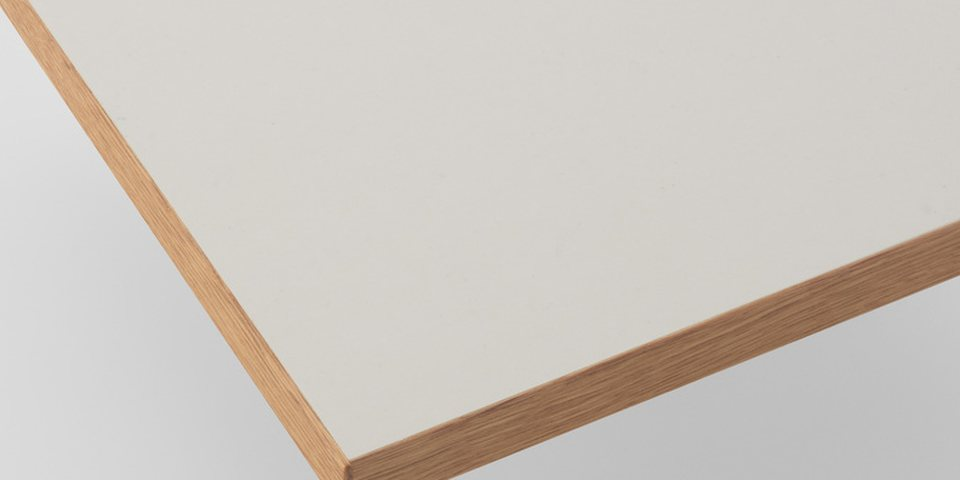
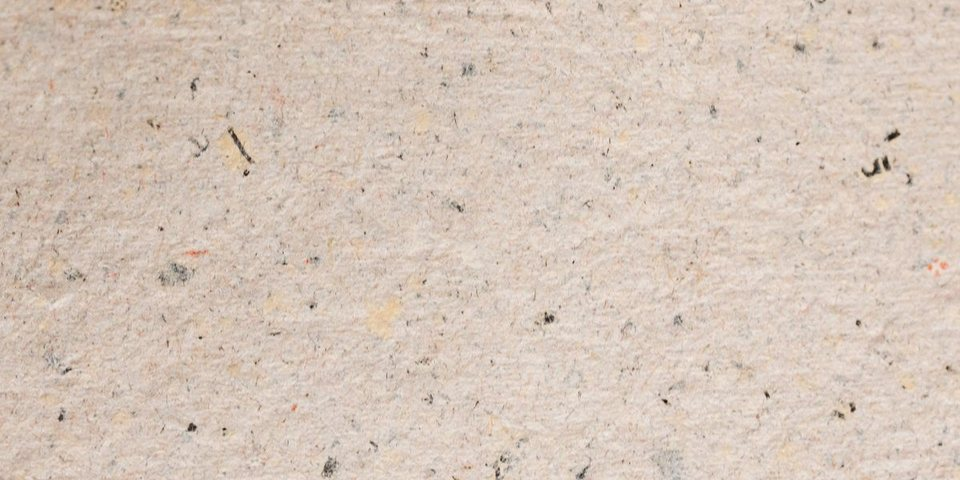
D3, T1, M4 görselleri Pexels'ten
Claude-Session: https://claude.ai/code/session_01S7vAHFJLTfkdp2KkHcoqyH

diff --git a/js/experiment.js b/js/experiment.js
@@ -69,7 +69,7 @@
   var GORSEL_KAYNAKLARI =
     'Linolyum: blahedo, Wikimedia Commons, CC BY-SA 2.5 (kırpıldı). ' +
     'Ahşap yünü panel: Florian Gerlach (Nawaro), Wikimedia Commons, CC BY-SA 3.0 (kırpıldı). ' +
-    'Diğer doku görselleri: ambientCG ve Poly Haven (CC0) ile üretici görselleri.';
+    'Diğer görseller: ambientCG ve Poly Haven (CC0), Pexels (Pexels lisansı) ve üretici görselleri.';
 
   // ---------- jsPsych ----------
   var uzantilar = [];
